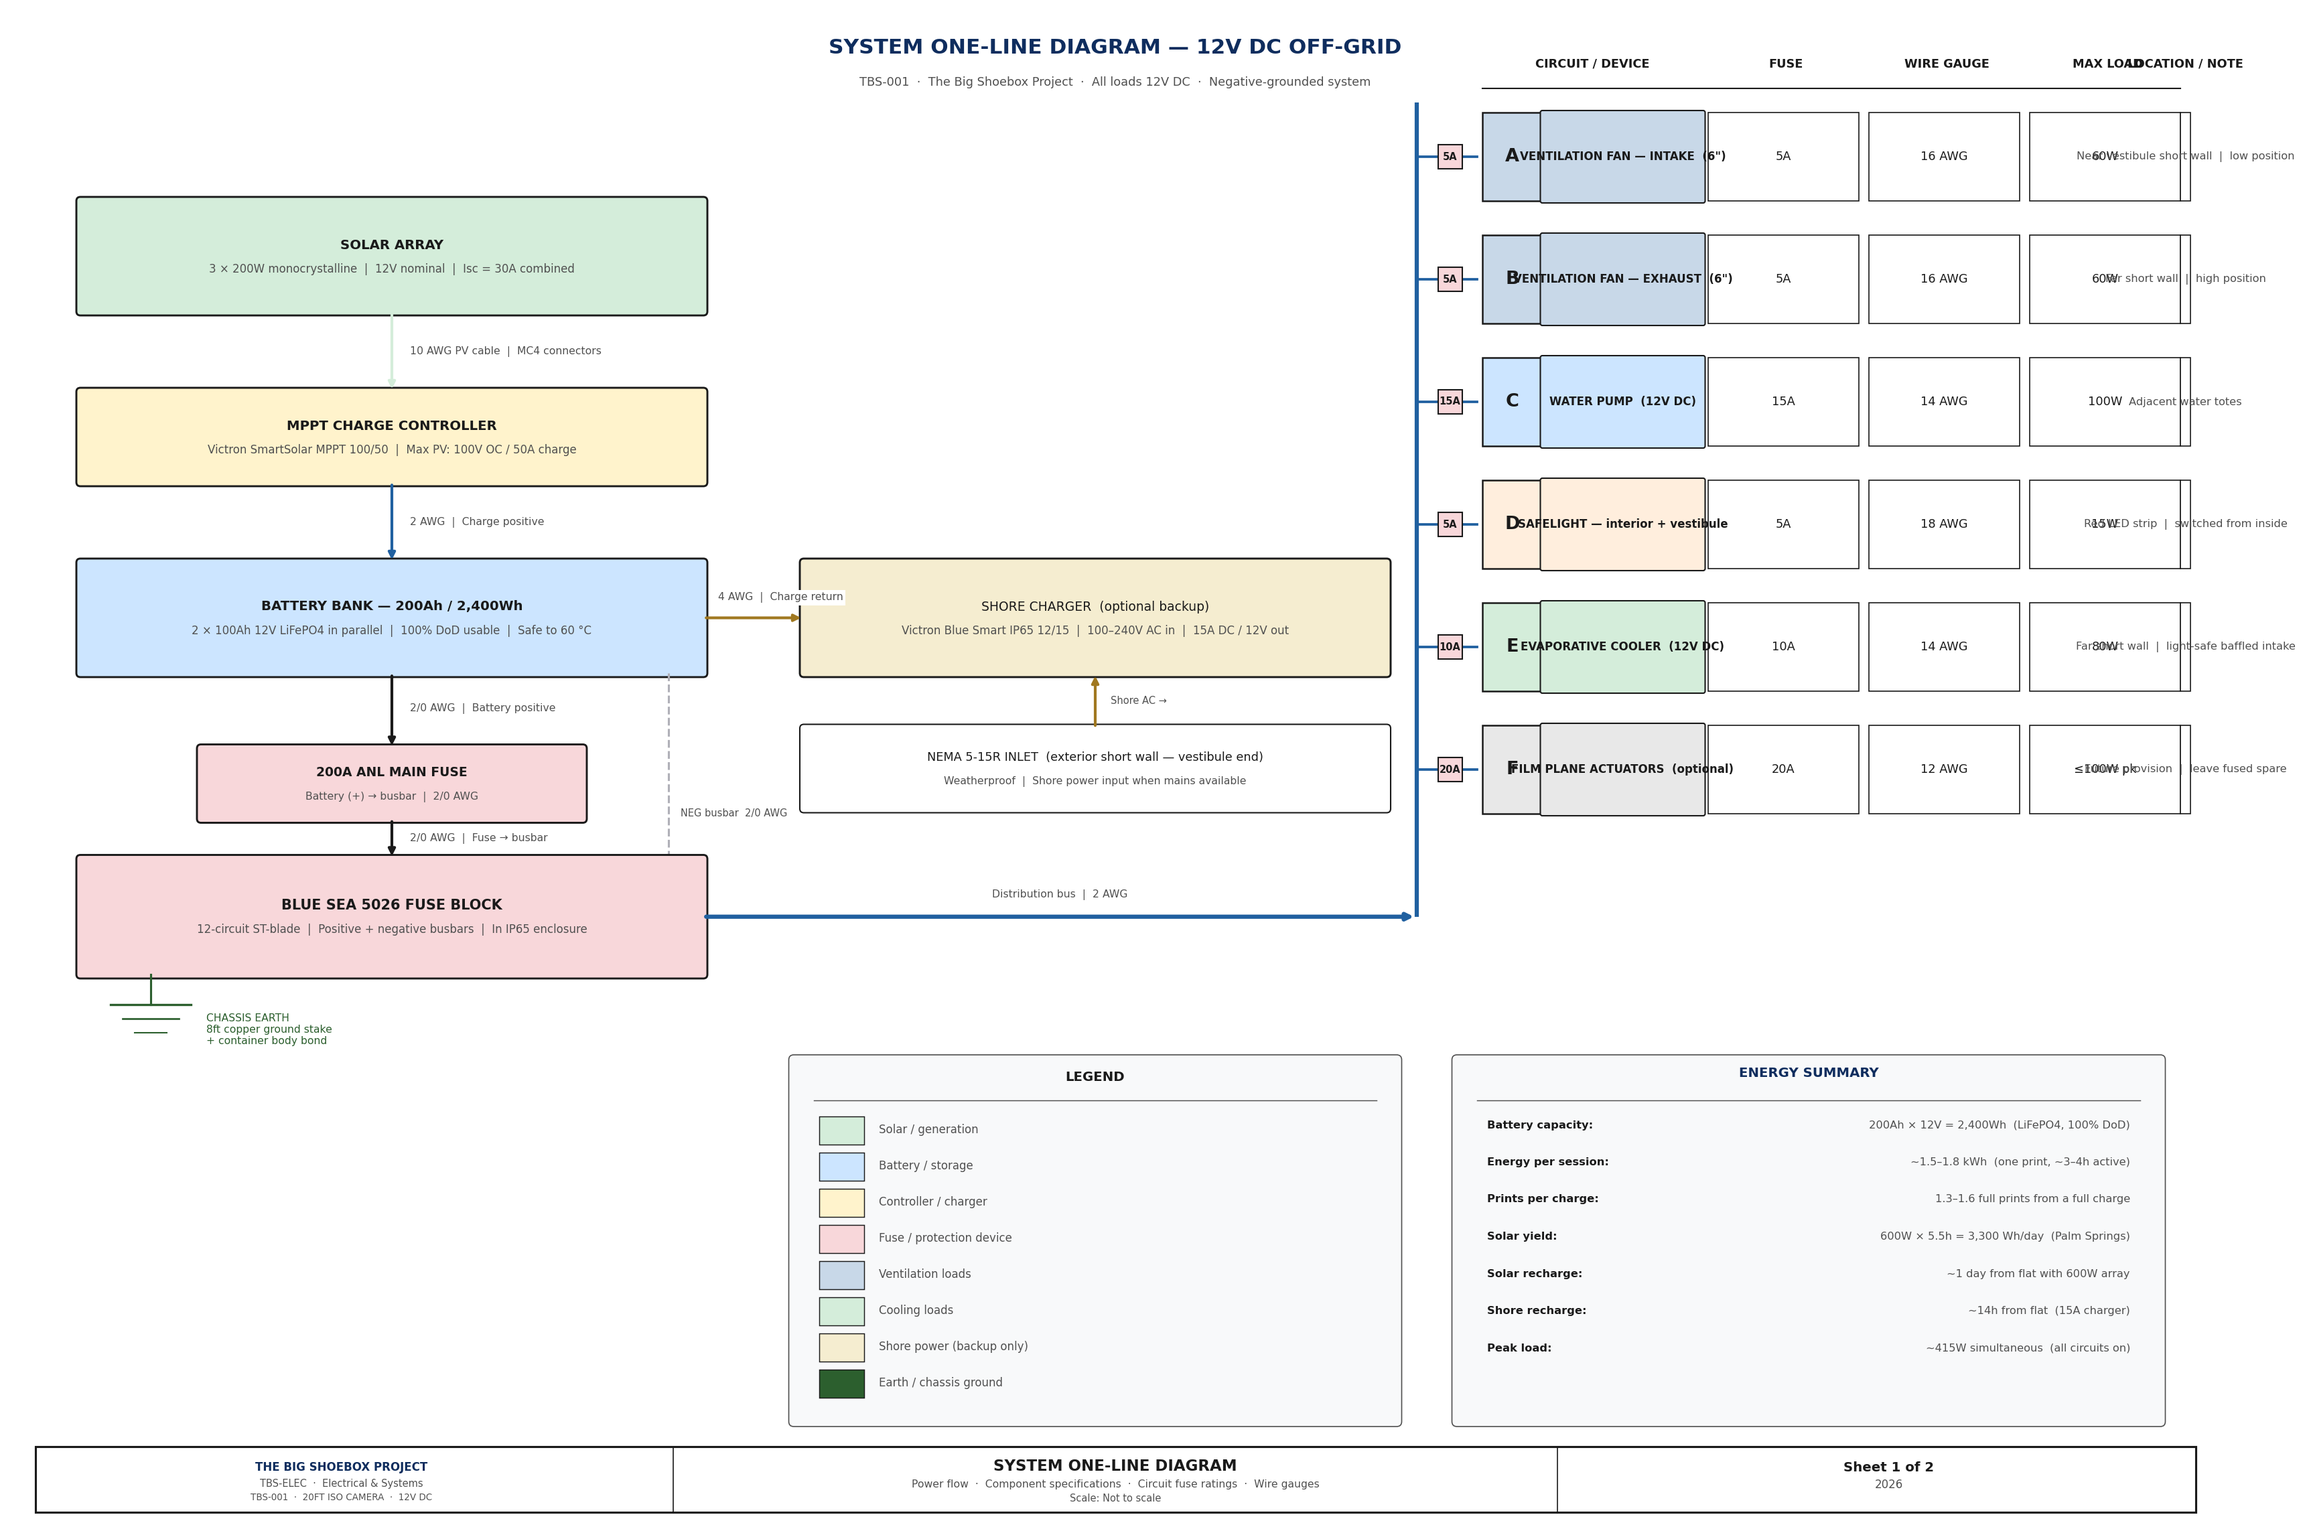
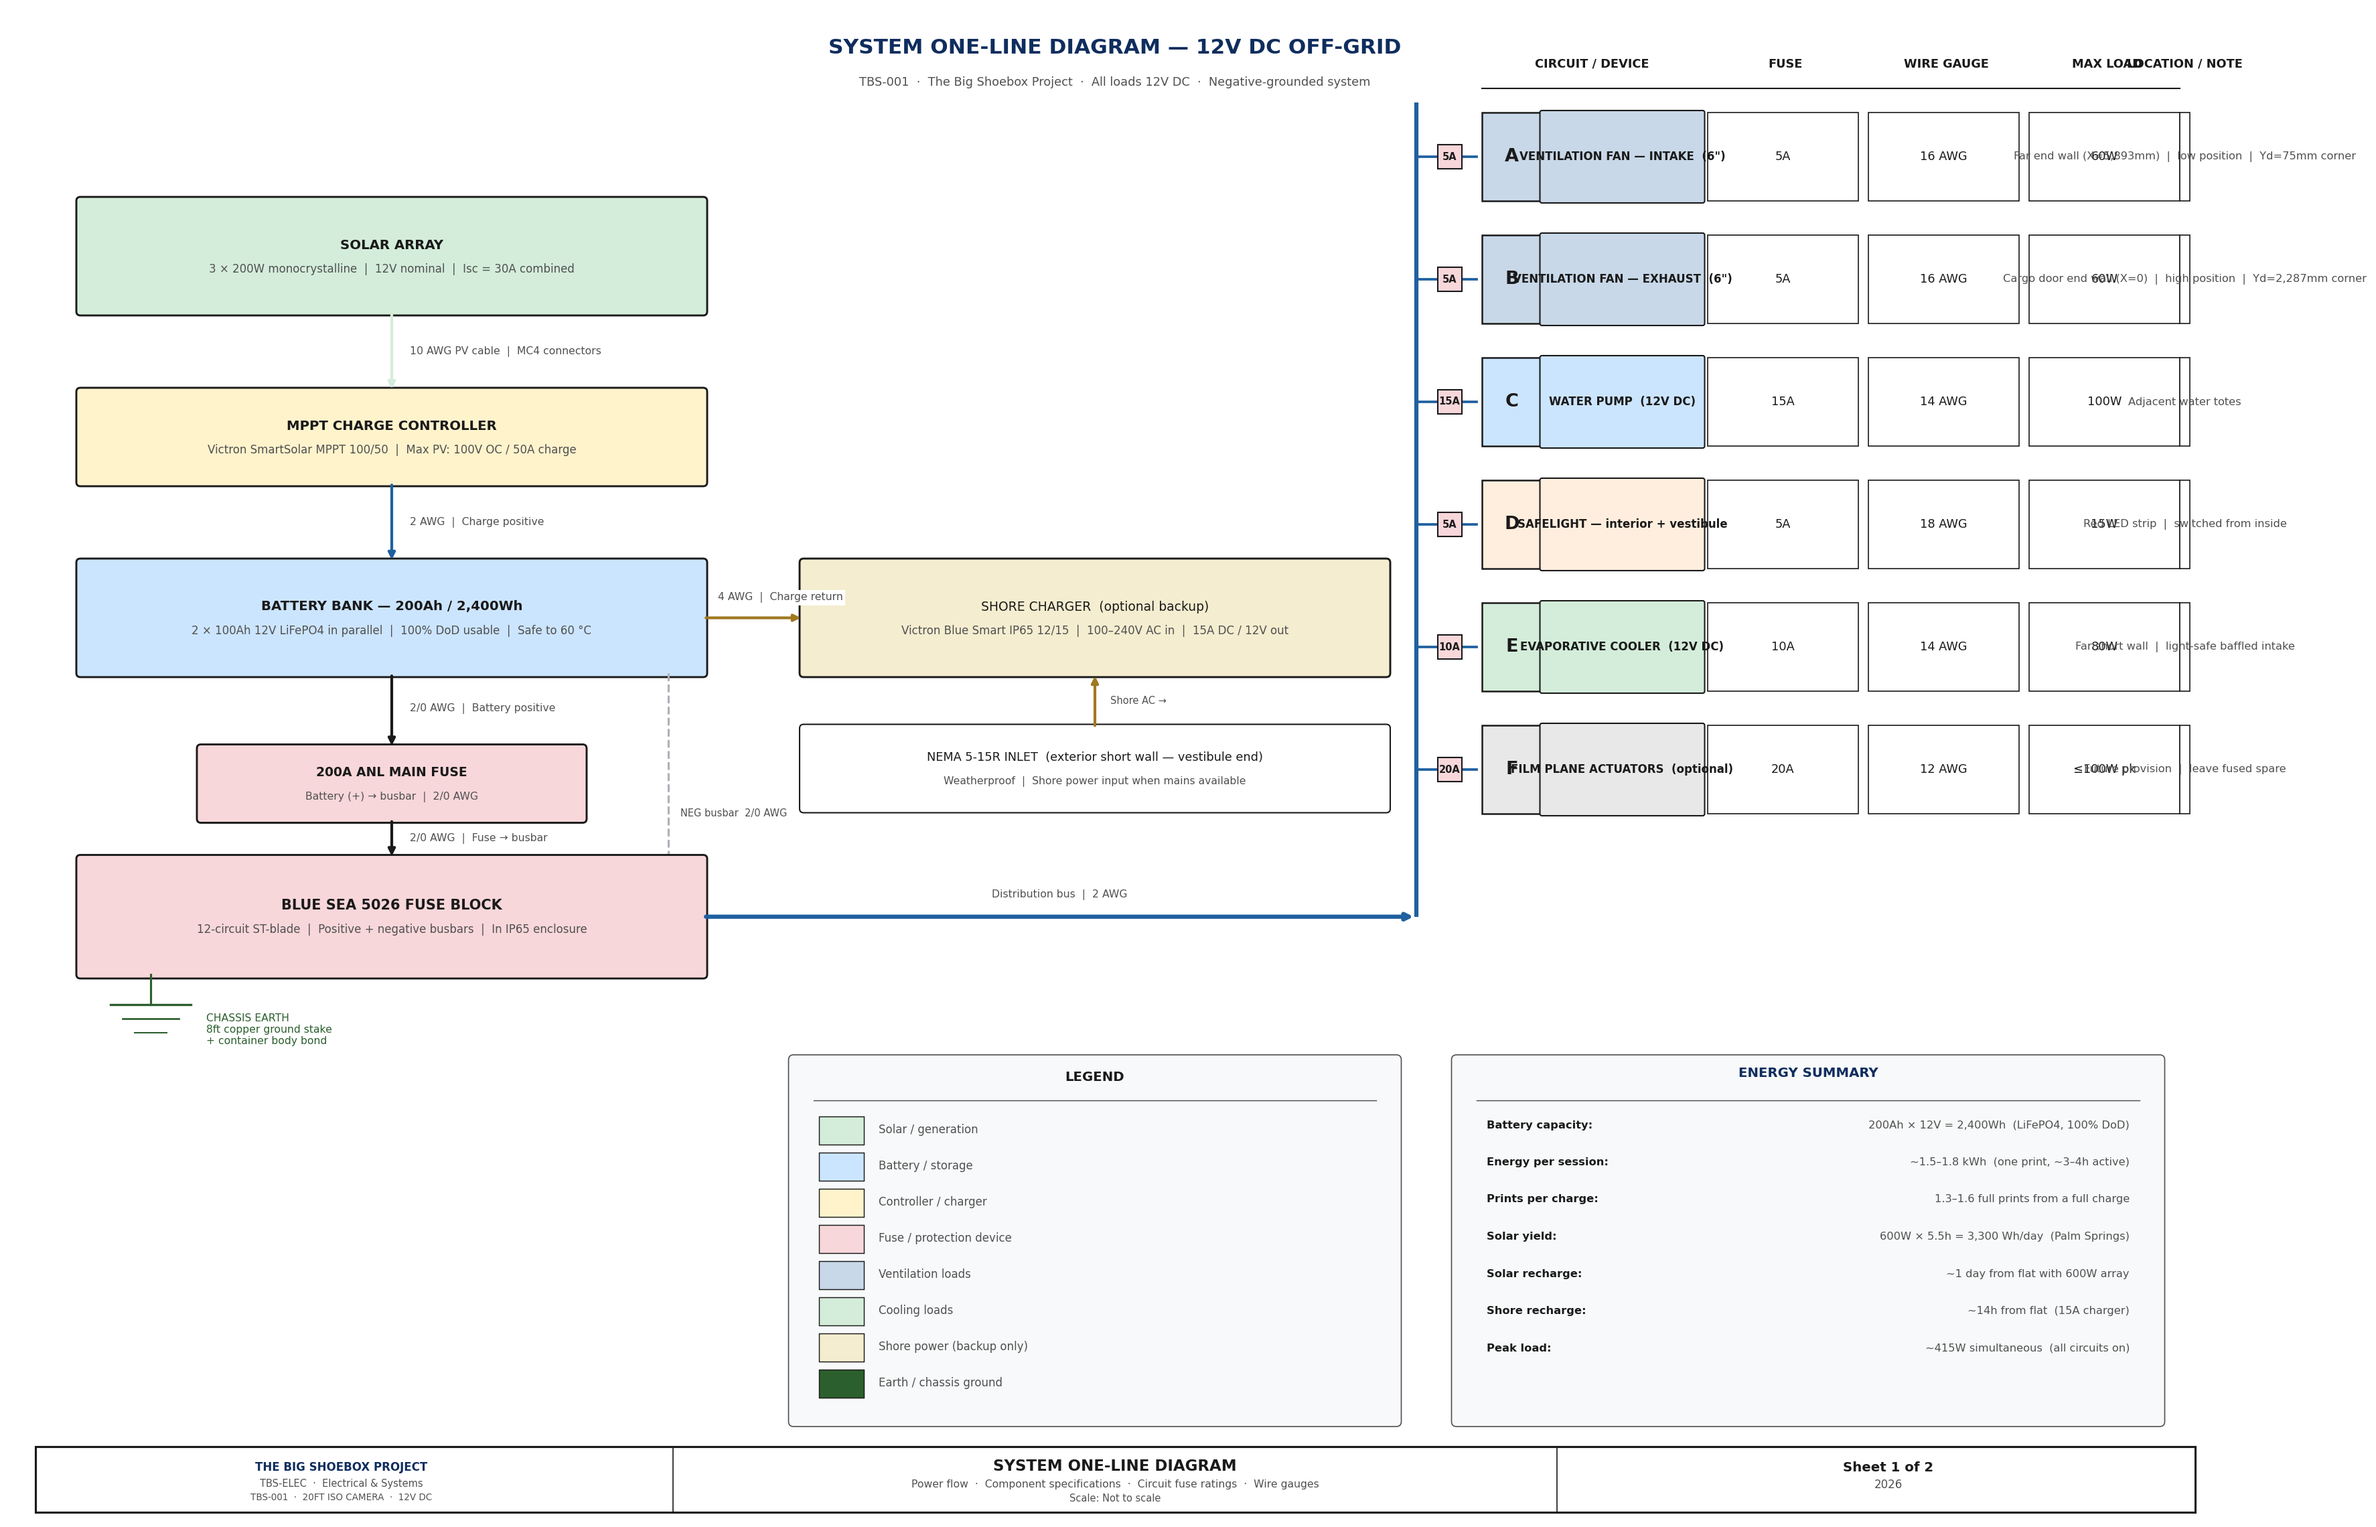
Fix fan positions in AO + electrical diagrams; update dependency map
Fan A (intake) = far end wall (X=C_LEN), Yd=75mm, H=600mm LOW
Fan B (exhaust) = cargo door end wall (X=0), Yd=2287mm, H=1800mm HIGH

- generate_assembly_overview.py: swap fan rectangles to correct end walls,
  use FAN_A_H/FAN_B_H/DUCT_HEIGHT from tbs_constants
- generate_electrical_diagram.py:
  - sheet1 circuit table: update Fan A/B location descriptions
  - sheet2: import FAN_A_YD/FAN_B_YD; fix fan circle X and Yd positions;
    fix component key descriptions and stale pump X reference (2400→2600)
- component-dependency-map.md: add FAN_A_YD and FAN_B_YD to section 1.7

diff --git a/generate_assembly_overview.py b/generate_assembly_overview.py
@@ -43,6 +43,7 @@ from tbs_constants import (
     DRUM_EQ_D, DRUM_EQ_H,
     DRUM_LZ_CX,
     RAIL_X_L, RAIL_X_R,
+    FAN_A_H, FAN_B_H, DUCT_HEIGHT,
     DIAGRAMS_DIR,
     C_OUT, C_CL, C_DIM,
 )
@@ -304,15 +305,17 @@ ax.text(PH_X, PH_H - 300, "Optical axis (into page)\nFocal length 2362mm",
 
 
 # ── Ventilation fans ──────────────────────────────────────────────────────────
-FAN_W = 200
-ax.add_patch(mpatches.Rectangle((0, 200), 60, FAN_W,
+# Fan A — INTAKE: far end wall (X=C_LEN), low position (H=FAN_A_H=600mm)
+# Fan B — EXHAUST: cargo door end wall (X=0), high position (H=FAN_B_H=1800mm)
+FAN_HH = DUCT_HEIGHT  # duct opening height (200mm) — same as hatch block height
+ax.add_patch(mpatches.Rectangle((C_LEN - 60, FAN_A_H - FAN_HH // 2), 60, FAN_HH,
              facecolor=C_FAN, edgecolor=C_OUT, linewidth=0.6, alpha=0.7, zorder=4))
-ax.text(30, 200 + FAN_W/2, "FAN\nIN", ha="center", va="center",
+ax.text(C_LEN - 30, FAN_A_H, "FAN\nIN", ha="center", va="center",
         fontsize=FS_SM - 1.5, color=C_OUT, zorder=5)
 
-ax.add_patch(mpatches.Rectangle((C_LEN - 60, C_HGT - FAN_W - 200), 60, FAN_W,
+ax.add_patch(mpatches.Rectangle((0, FAN_B_H - FAN_HH // 2), 60, FAN_HH,
              facecolor=C_FAN, edgecolor=C_OUT, linewidth=0.6, alpha=0.7, zorder=4))
-ax.text(C_LEN - 30, C_HGT - FAN_W/2 - 200, "FAN\nOUT", ha="center", va="center",
+ax.text(30, FAN_B_H, "FAN\nOUT", ha="center", va="center",
         fontsize=FS_SM - 1.5, color=C_OUT, zorder=5)
 
 
@@ -388,22 +391,22 @@ ax.add_patch(mpatches.Rectangle((TB_X, TB_Y), TB_W, TB_H,
              facecolor="#F8F8F8", edgecolor=C_OUT, linewidth=1.0))
 ax.add_patch(mpatches.Rectangle((TB_X, TB_Y + 280), TB_W, TB_H - 280,
              facecolor="#E0E0E8", edgecolor=C_OUT, linewidth=0.6))
-ax.text(TB_X + TB_W/2, TB_Y + 350, "TBS-001",
+ax.text(TB_X + TB_W/2, TB_Y + 360, "TBS-001",
         ha="center", va="center", fontsize=FS_LG + 2, color=C_OUT, fontweight="bold")
-ax.text(TB_X + TB_W/2, TB_Y + 295, "ASSEMBLY — SIDE ELEVATION",
+ax.text(TB_X + TB_W/2, TB_Y + 305, "ASSEMBLY — SIDE ELEVATION",
         ha="center", va="center", fontsize=FS_MD, color=C_OUT)
-ax.text(TB_X + 20, TB_Y + 230, "Scale: 1:75 (approx)",
+ax.text(TB_X + 20, TB_Y + 240, "Scale: 1:75 (approx)",
         ha="left", va="center", fontsize=FS_SM, color=C_DIM)
-ax.text(TB_X + 20, TB_Y + 170,
+ax.text(TB_X + 20, TB_Y + 180,
         f"Container: {C_LEN}L x {C_WID}W x {C_HGT}H (mm interior)",
         ha="left", va="center", fontsize=FS_SM, color=C_DIM)
-ax.text(TB_X + 20, TB_Y + 110,
+ax.text(TB_X + 20, TB_Y + 120,
         f"Pinhole: X={PH_X}mm  H={PH_H}mm  f/1088  Focal length {C_WID}mm",
         ha="left", va="center", fontsize=FS_SM, color=C_DIM)
-ax.text(TB_X + 20, TB_Y + 50,
+ax.text(TB_X + 20, TB_Y + 60,
         "View: near long wall (+Y direction). Optical axis perpendicular to page.",
         ha="left", va="center", fontsize=FS_SM - 0.5, color=C_DIM)
-ax.text(TB_X + TB_W - 20, TB_Y + 15, "© 2026 Alvin Richards — GNU AGPLv3",
+ax.text(TB_X + TB_W - 20, TB_Y + 0, "© 2026 Alvin Richards — GNU AGPLv3",
         ha="right", va="bottom", fontsize=FS_SM - 1, color=C_DIM, style="italic")
 
 

diff --git a/generate_electrical_diagram.py b/generate_electrical_diagram.py
@@ -255,9 +255,9 @@ def draw_sheet1():
     circuits = [
         # letter, name, fuse, wire, load, note, colour
         ("A", "VENTILATION FAN — INTAKE  (6\")",   "5A",  "16 AWG", "60W",
-         "Near vestibule short wall  |  low position", C_ALUM),
+         "Far end wall (X=5,893mm)  |  low position  |  Yd=75mm corner", C_ALUM),
         ("B", "VENTILATION FAN — EXHAUST  (6\")",  "5A",  "16 AWG", "60W",
-         "Far short wall  |  high position", C_ALUM),
+         "Cargo door end wall (X=0)  |  high position  |  Yd=2,287mm corner", C_ALUM),
         ("C", "WATER PUMP  (12V DC)",              "15A", "14 AWG", "100W",
          "Adjacent water totes", C_BATT),
         ("D", "SAFELIGHT — interior + vestibule",  "5A",  "18 AWG", "15W",
@@ -400,6 +400,7 @@ def draw_sheet2():
         DRUM_LZ_CX, DRUM_LZ_YD_LO, DRUM_LZ_YD_HI,
         DRUM_FZ_CX, DRUM_FZ_YD_LO, DRUM_FZ_YD_HI,
         DRUM_CX, DRUM_D, DRUM_R,
+        FAN_A_YD, FAN_B_YD,
         DIAGRAMS_DIR,
     )
 
@@ -606,18 +607,18 @@ def draw_sheet2():
             ha="center", va="center", fontsize=6.5, fontweight="bold", color=C_OUT)
 
     # ── Fans ──────────────────────────────────────────────────────────────────
-    # Fan A — intake, LEFT short wall = cargo door end
-    FA_X = OX + wt/2
-    FA_Y = OY + cwid * 0.35
+    # Fan A — INTAKE: RIGHT short wall = far end (X=C_LEN), Yd=75mm near-wall corner
+    FA_X = OX + clen - wt/2
+    FA_Y = OY + wt + FAN_A_YD * S_yd
     ax.add_patch(plt.Circle((FA_X, FA_Y), 0.22,
                  fc=C_ALUM, ec=C_OUT, lw=1.2, zorder=5))
     ax.text(FA_X, FA_Y, "A",
             ha="center", va="center", fontsize=9, fontweight="bold",
             color=C_OUT, zorder=6)
 
-    # Fan B — exhaust, RIGHT short wall = far end
-    FB_X = OX + clen - wt/2
-    FB_Y = OY + cwid * 0.65
+    # Fan B — EXHAUST: LEFT short wall = cargo door end (X=0), Yd=2287mm far-wall corner
+    FB_X = OX + wt/2
+    FB_Y = OY + wt + FAN_B_YD * S_yd
     ax.add_patch(plt.Circle((FB_X, FB_Y), 0.22,
                  fc=C_ALUM, ec=C_OUT, lw=1.2, zorder=5))
     ax.text(FB_X, FB_Y, "B",
@@ -723,11 +724,11 @@ def draw_sheet2():
         ("BAT",   C_BATT,    "BATTERY BANK (BAT)",
          "2×100Ah LiFePO4 12V  |  2,400Wh  |  Pinhole wall face, X=100mm"),
         ("A",     C_ALUM,    "INTAKE FAN — Cct A",
-         "6\" inline DC  |  5A / 16 AWG / 60W  |  Cargo door wall (left)"),
+         "6\" inline DC  |  5A / 16 AWG / 60W  |  Far end wall (X=5,893mm)  |  Yd=75mm"),
         ("B",     C_ALUM,    "EXHAUST FAN — Cct B",
-         "6\" inline DC  |  5A / 16 AWG / 60W  |  Far end wall (right)"),
+         "6\" inline DC  |  5A / 16 AWG / 60W  |  Cargo door end wall (X=0)  |  Yd=2,287mm"),
         ("C",     C_BATT,    "WATER PUMP — Cct C",
-         "12V DC  |  15A / 14 AWG / 100W  |  Pinhole wall face, X=2,400mm"),
+         "12V DC  |  15A / 14 AWG / 100W  |  Pinhole wall face, X=2,600mm"),
         ("D",     "#FFD700", "SAFELIGHT — Cct D",
          "Red LED strip  |  5A / 18 AWG / 15W  |  Inner face, cargo door wall"),
         ("E",     C_SOLAR,   "EVAP COOLER — Cct E",

diff --git a/component-dependency-map.md b/component-dependency-map.md
@@ -114,6 +114,8 @@ compression latches, Ø750mm revolving drum aperture.*
 | Panel fan body depth | 50 mm | `FAN_BODY_D` |
 | Fan A center height AFF (low) | 600 mm | `FAN_A_H` |
 | Fan B center height AFF (high) | 1,800 mm | `FAN_B_H` |
+| Fan A Yd position (near-wall corner) | 75 mm | `FAN_A_YD` |
+| Fan B Yd position (far-wall corner) | 2,287 mm | `FAN_B_YD` |
 | Baffle duct depth | 300 mm | `DUCT_DEPTH` |
 | Baffle duct height | 200 mm | `DUCT_HEIGHT` |
 | Fan A shadow margin (from cone) | 869 mm | `FAN_A_MARGIN` |
